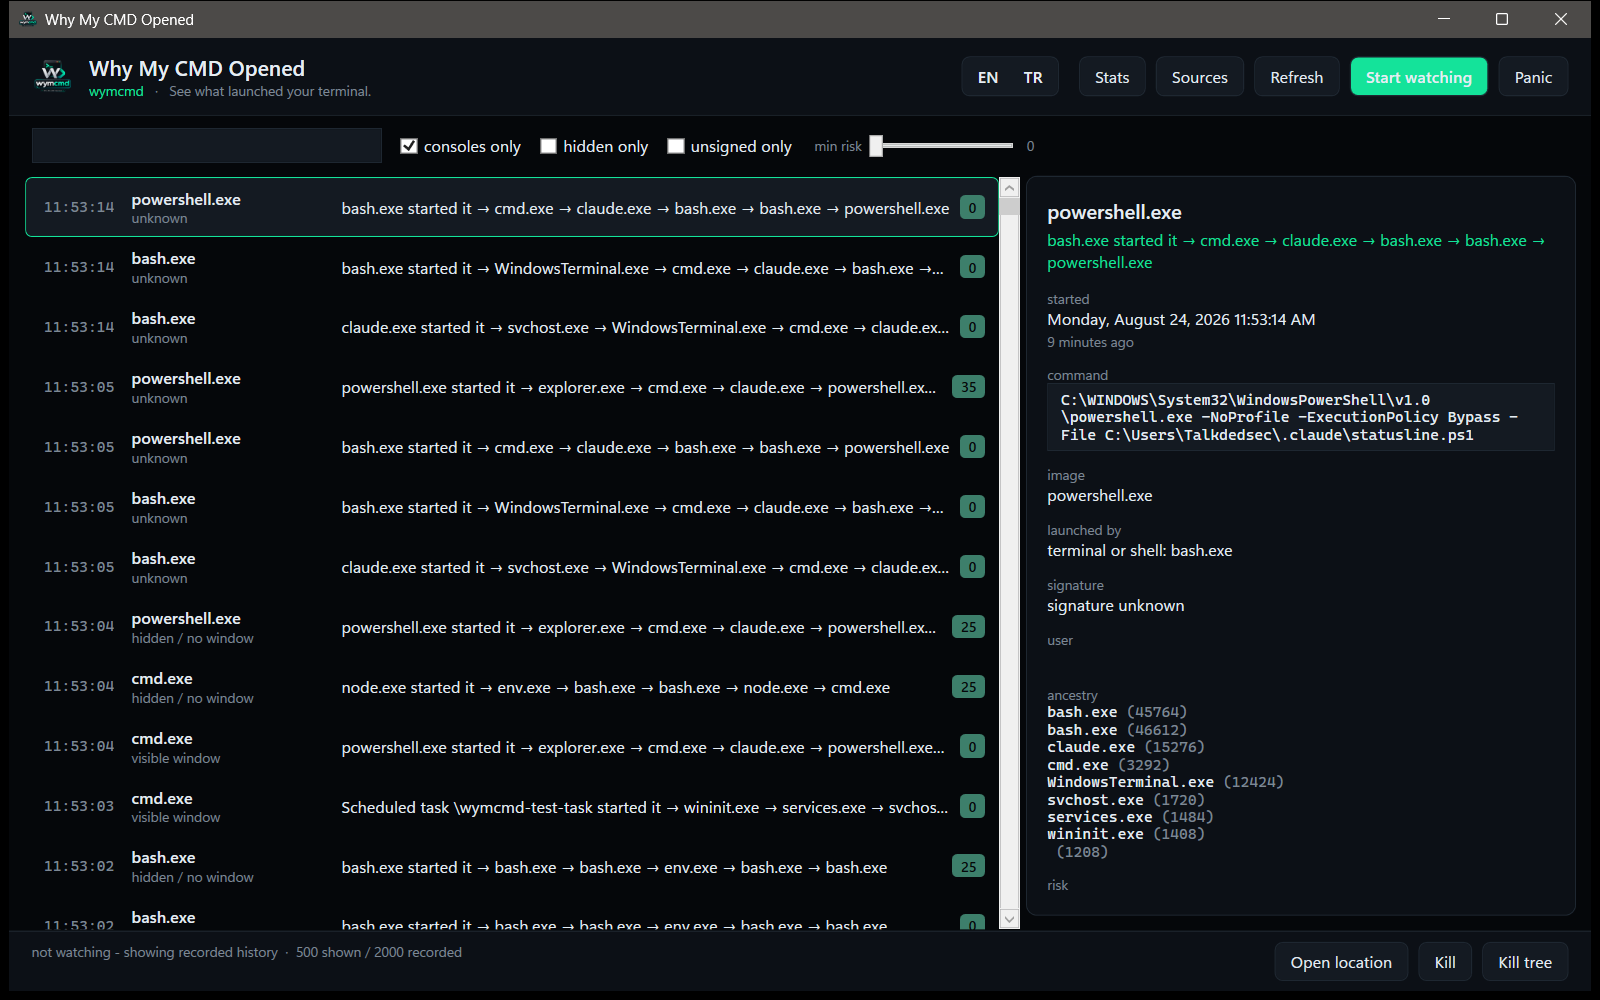
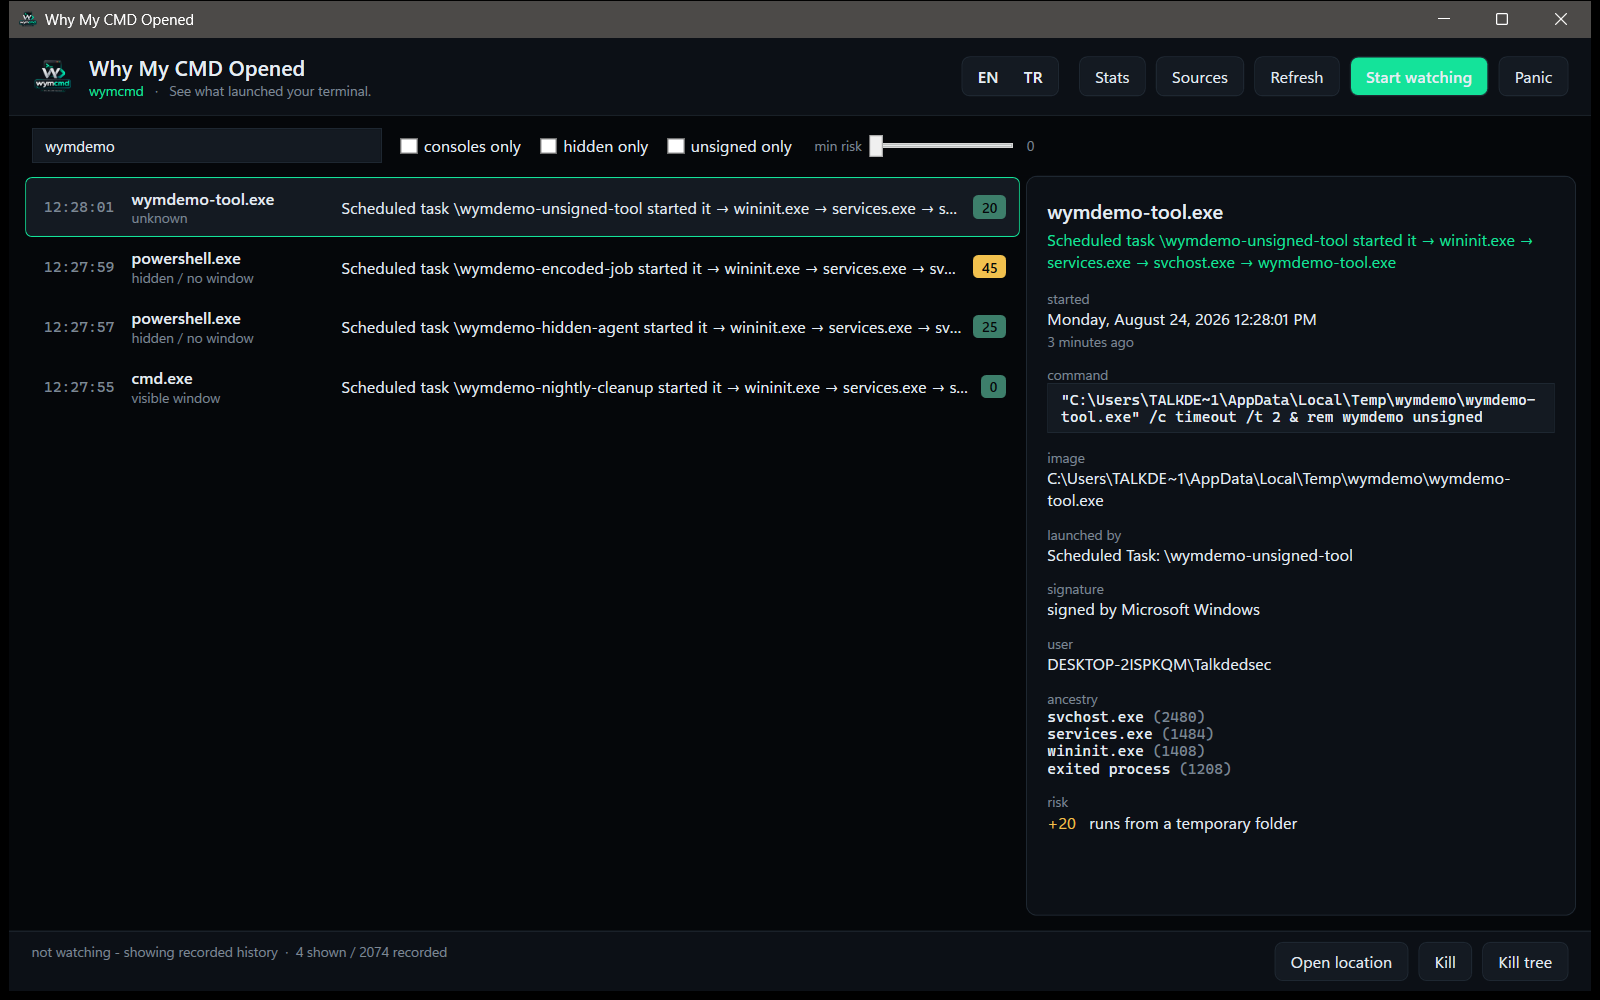
Translate risk reasons and exited ancestors in the window too
The detail pane was printing raw keys like temp_path, and a parent that had already exited
showed as a bare pid with no name.

diff --git a/src/Wymcmd/Views/MainWindow.xaml b/src/Wymcmd/Views/MainWindow.xaml
@@ -19,6 +19,8 @@
         <conv:NullToCollapsedConverter x:Key="HideEmpty" />
         <conv:BoolToWatchTextConverter x:Key="WatchText" />
         <conv:EmptyToVisibleConverter x:Key="WhenEmpty" />
+        <conv:RiskFactorTextConverter x:Key="RiskFactorText" />
+        <conv:AncestorNameConverter x:Key="AncestorName" />
     </Window.Resources>
 
     <Grid>
@@ -179,7 +181,7 @@
                             <ItemsControl.ItemTemplate>
                                 <DataTemplate>
                                     <TextBlock Style="{StaticResource Mono}">
-                                        <Run Text="{Binding ImageName, Mode=OneWay}" />
+                                        <Run Text="{Binding ImageName, Mode=OneWay, Converter={StaticResource AncestorName}}" />
                                         <Run Text="{Binding Pid, Mode=OneWay, StringFormat=({0})}" Foreground="{StaticResource Muted}" />
                                     </TextBlock>
                                 </DataTemplate>
@@ -193,7 +195,7 @@
                                     <TextBlock Margin="0,1">
                                         <Run Text="{Binding Weight, Mode=OneWay, StringFormat=+{0}}" Foreground="{StaticResource Warn}" />
                                         <Run Text=" " />
-                                        <Run Text="{Binding Key, Mode=OneWay}" />
+                                        <Run Text="{Binding Key, Mode=OneWay, Converter={StaticResource RiskFactorText}}" />
                                     </TextBlock>
                                 </DataTemplate>
                             </ItemsControl.ItemTemplate>

diff --git a/src/Wymcmd/Converters/EventConverters.cs b/src/Wymcmd/Converters/EventConverters.cs
@@ -94,6 +94,25 @@ public sealed class NullToCollapsedConverter : IValueConverter
         => throw new NotSupportedException();
 }
 
+public sealed class RiskFactorTextConverter : IValueConverter
+{
+    public object Convert(object? value, Type targetType, object? parameter, CultureInfo culture)
+        => value is string key ? Loc.T("risk." + key) : "";
+
+    public object ConvertBack(object? value, Type targetType, object? parameter, CultureInfo culture)
+        => throw new NotSupportedException();
+}
+
+/// <summary>A parent that exited before we looked has a pid but no name of its own.</summary>
+public sealed class AncestorNameConverter : IValueConverter
+{
+    public object Convert(object? value, Type targetType, object? parameter, CultureInfo culture)
+        => value is string name && name.Length > 0 ? name : Loc.T("chain.exited");
+
+    public object ConvertBack(object? value, Type targetType, object? parameter, CultureInfo culture)
+        => throw new NotSupportedException();
+}
+
 public sealed class EmptyToVisibleConverter : IValueConverter
 {
     public object Convert(object? value, Type targetType, object? parameter, CultureInfo culture)

diff --git a/README.tr.md b/README.tr.md
@@ -180,7 +180,7 @@ dışa aktarılan raporlar dahil. `--lang tr` ya da penceredeki EN/TR anahtarı.
 
 ## Kurulum
 
-[Releases](https://github.com/Talkdedsec1/wymcmd/releases) sayfasından zip'i indir, aç, klasörü
+[Releases](https://github.com/Talkdedsec1/tlk-wymcmd/releases) sayfasından zip'i indir, aç, klasörü
 `PATH`'e ekle. Kurulum yok, indirilecek runtime yok: çalıştırılabilir dosya kendi kendine yeter.
 
 Zip'in içinde birbirine ait iki dosya var:
@@ -196,7 +196,7 @@ Zip'in içinde birbirine ait iki dosya var:
 Visual Studio C++ build tools ister; yalnız pencereyi istiyorsan o adımı atlayabilirsin.
 
 ```console
-git clone https://github.com/Talkdedsec1/wymcmd
+git clone https://github.com/Talkdedsec1/tlk-wymcmd
 cd wymcmd
 dotnet publish src/Wymcmd/Wymcmd.csproj -c Release -o publish
 dotnet publish src/WymcmdShim/WymcmdShim.csproj -c Release -o launcher

diff --git a/README.md b/README.md
@@ -184,7 +184,7 @@ text, error messages and exported reports. `--lang tr`, or the EN/TR switch in t
 
 ## Install
 
-Grab the zip from [releases](https://github.com/Talkdedsec1/wymcmd/releases), unpack it, and put
+Grab the zip from [releases](https://github.com/Talkdedsec1/tlk-wymcmd/releases), unpack it, and put
 the folder on your `PATH`. Nothing to install, no runtime to fetch: the executable is
 self-contained.
 
@@ -202,7 +202,7 @@ ahead of time, which needs the Visual Studio C++ build tools; skip that step if 
 the window.
 
 ```console
-git clone https://github.com/Talkdedsec1/wymcmd
+git clone https://github.com/Talkdedsec1/tlk-wymcmd
 cd wymcmd
 dotnet publish src/Wymcmd/Wymcmd.csproj -c Release -o publish
 dotnet publish src/WymcmdShim/WymcmdShim.csproj -c Release -o launcher
